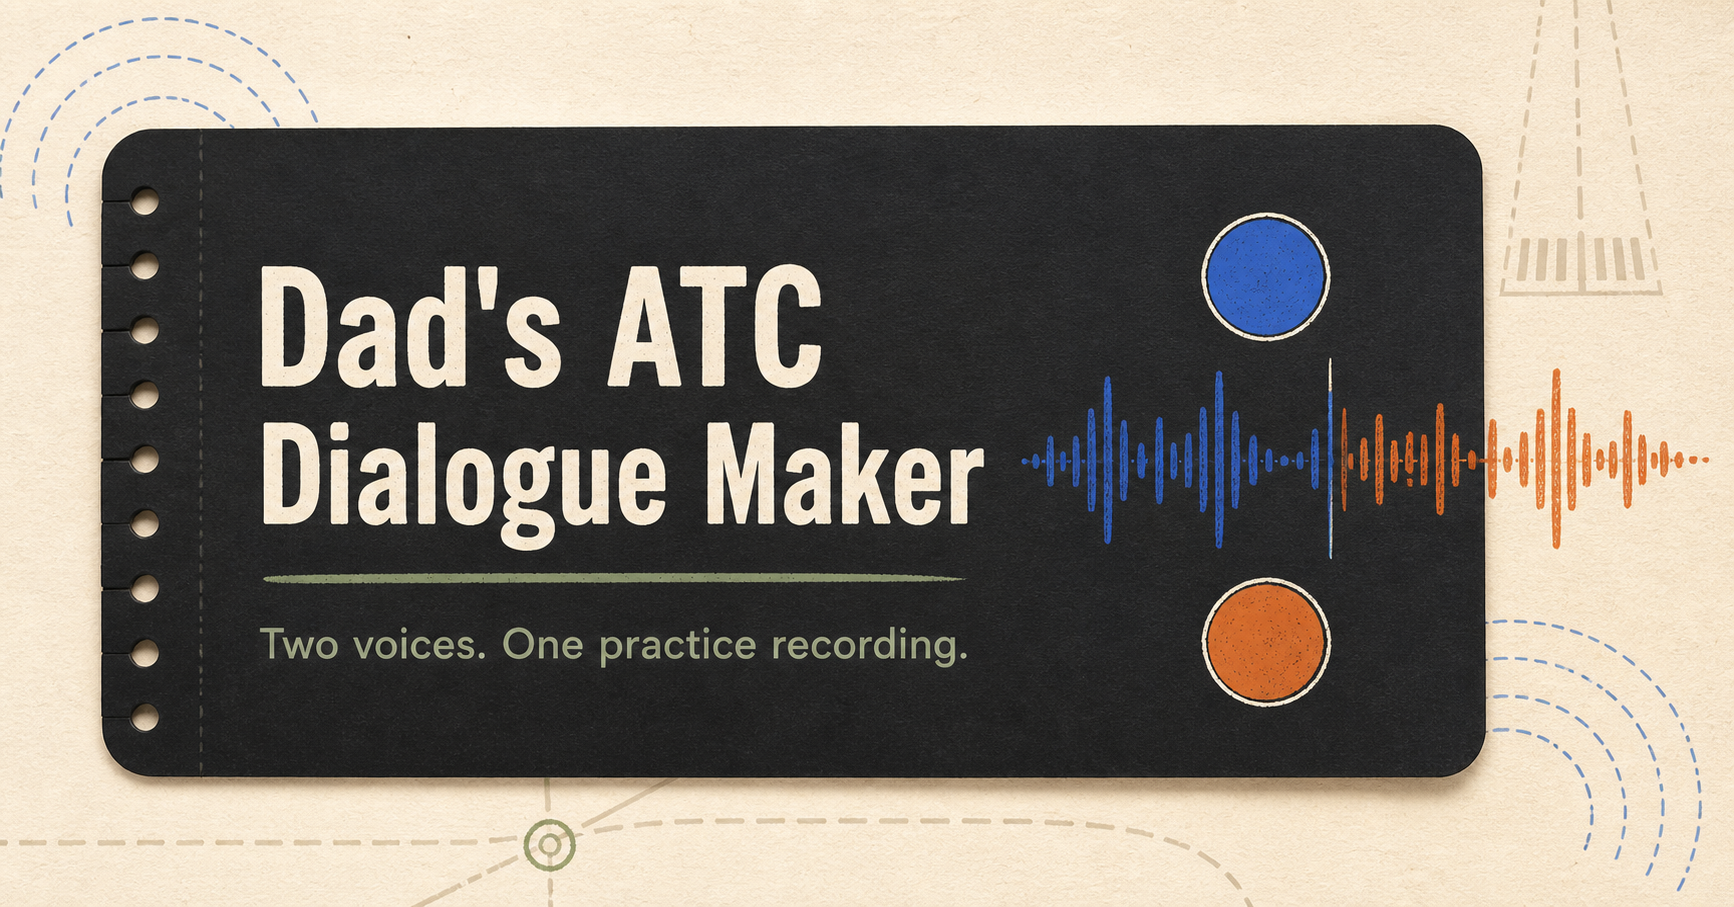
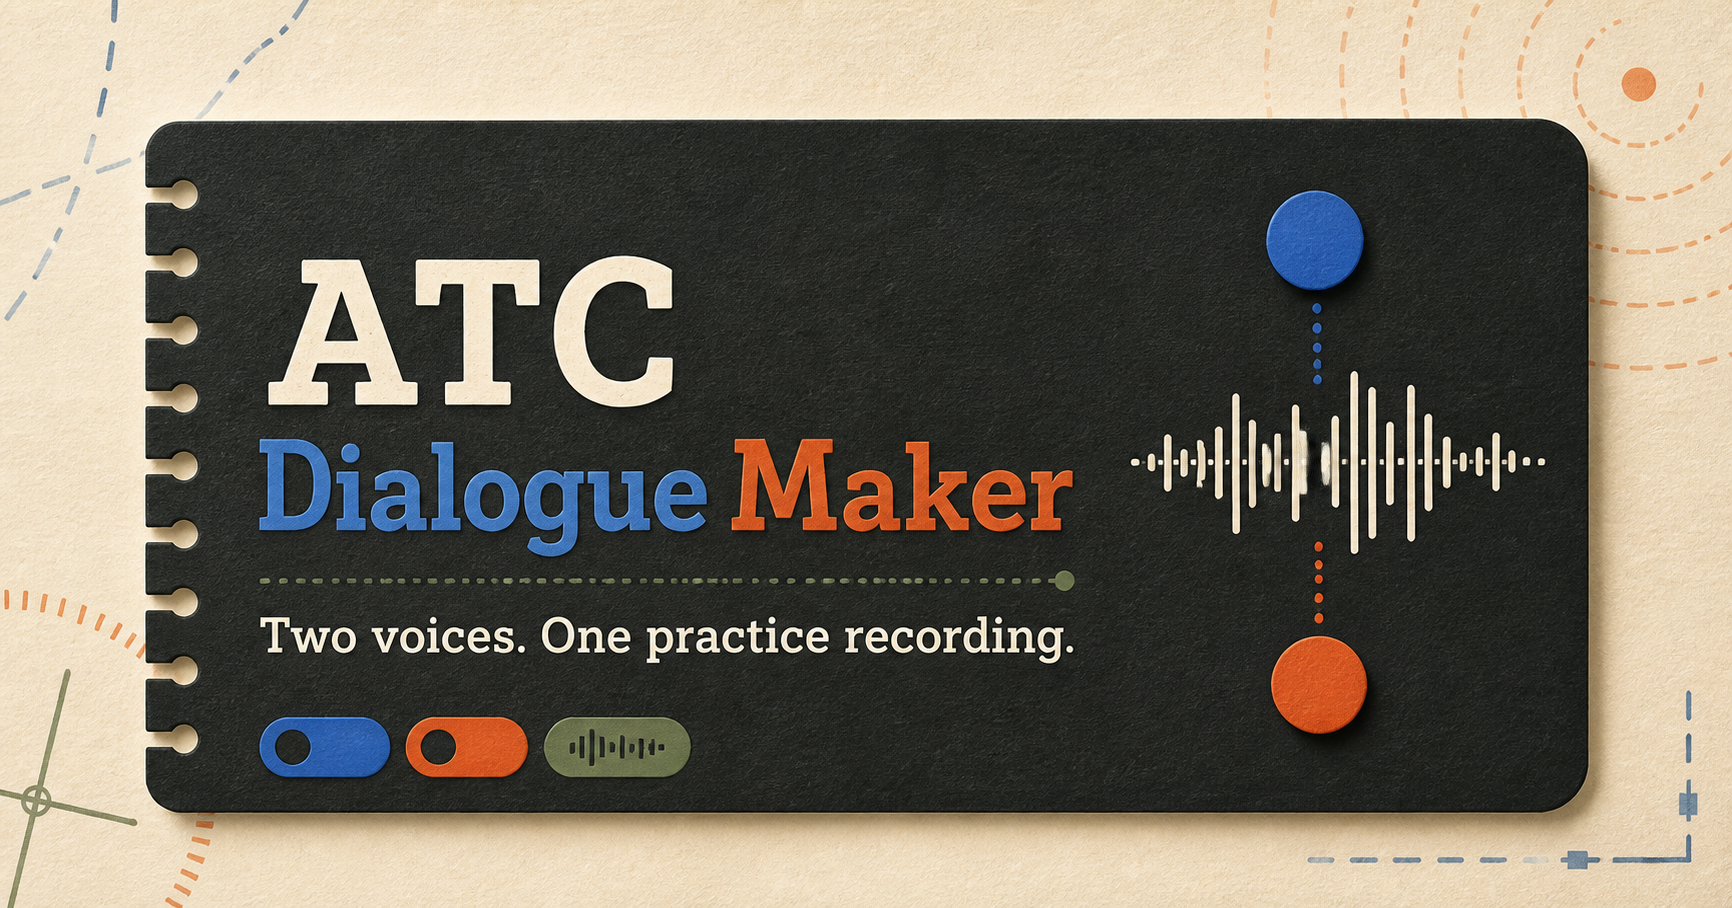
Rename site and remove sign-in branding

diff --git a/app/globals.css b/app/globals.css
@@ -74,7 +74,7 @@ body::before {
 
 .personal-label { display: flex; align-items: center; justify-content: space-between; color: #c8c6c1; font-size: 10px; letter-spacing: .13em; text-transform: uppercase; }
 .personal-label i { width: 9px; height: 9px; border-radius: 50%; background: #a8dfb3; box-shadow: 0 0 0 5px rgba(168,223,179,.1); }
-.for-dad { margin: 84px 0 14px; color: #efb188; font: italic 17px/1.4 Georgia, serif; }
+.for-practice { margin: 84px 0 14px; color: #efb188; font: italic 17px/1.4 Georgia, serif; }
 .intro-card h1 { margin: 0; font: 600 46px/.96 Georgia, serif; letter-spacing: -.04em; }
 .intro-copy { margin: 23px 0 0; color: #b8babd; font-size: 13px; line-height: 1.7; }
 .tiny-note { position: absolute; z-index: 1; left: 25px; right: 25px; bottom: 25px; display: grid; grid-template-columns: auto 1fr; gap: 10px; padding-top: 18px; border-top: 1px solid rgba(255,255,255,.13); }
@@ -156,7 +156,7 @@ input[type="range"] { width: 100%; accent-color: var(--blue); }
 @media (max-width: 1120px) {
   .maker-shell { grid-template-columns: 230px minmax(480px,1fr); grid-template-areas: "intro work" "choices work" "note note"; }
   .intro-card { position: static; min-height: 390px; }
-  .for-dad { margin-top: 46px; }
+  .for-practice { margin-top: 46px; }
   .intro-card h1 { font-size: 38px; }
 }
 

diff --git a/app/layout.tsx b/app/layout.tsx
@@ -9,16 +9,16 @@ export async function generateMetadata(): Promise<Metadata> {
   const baseUrl = `${protocol}://${host}`;
 
   return {
-    title: "Dad's ATC Dialogue Maker",
+    title: "ATC Dialogue Maker",
     description: "Make two-voice controller and pilot practice recordings in the browser.",
     openGraph: {
-      title: "Dad's ATC Dialogue Maker",
+      title: "ATC Dialogue Maker",
       description: "Two voices, radio effects, one useful practice recording.",
       images: [`${baseUrl}/og.png`]
     },
     twitter: {
       card: "summary_large_image",
-      title: "Dad's ATC Dialogue Maker",
+      title: "ATC Dialogue Maker",
       description: "Two voices, radio effects, one useful practice recording.",
       images: [`${baseUrl}/og.png`]
     }

diff --git a/app/page.tsx b/app/page.tsx
@@ -164,7 +164,7 @@ export default function DialogueMaker() {
     <main className="maker-shell">
       <section className="intro-card">
         <div className="personal-label"><span>Personal tool</span><i aria-hidden="true" /></div>
-        <p className="for-dad">For Dad&apos;s ATC practice sessions</p>
+        <p className="for-practice">For ATC practice sessions</p>
         <h1>Make a practice<br />dialogue.</h1>
         <p className="intro-copy">Paste the two sides, pick a voice for each person, and make one recording.</p>
         <div className="tiny-note">

diff --git a/README.md b/README.md
@@ -1,25 +1,17 @@
-# ATC Dialogue Studio
+# ATC Dialogue Maker
 
-A local web app that turns a labelled ATC/pilot script into a two-voice MP3 dialogue.
+A two-voice ATC and pilot practice recording maker that runs directly in the browser.
 
-The transmission-sound setting can leave the voices clean or add light radio filtering, a compressed VHF-style sound, or a strongly muffled recording effect. The selected effect is used for previews and the final MP3.
+## Run locally
 
-## Run it
-
-Requirements: Node.js 20 or newer and an internet connection.
+Requirements: Node.js 22 or newer.
 
 ```powershell
 npm install
-npm start
-```
-
-Then open [http://localhost:4173](http://localhost:4173).
-
-For automatic restarts while editing:
-
-```powershell
 npm run dev
 ```
+
+Open the local address printed by the development server.
 
 ## Script format
 
@@ -34,9 +26,10 @@ The aliases `CONTROLLER`, `TOWER`, `GROUND`, `APPROACH`, and `DEPARTURE` are als
 
 ## Notes
 
-- The neural voices are retrieved through Microsoft Edge's online speech service. No API key is needed, but the app needs internet access and the service may change.
+- Speech generation runs on the visitor's device. The voice model is downloaded on the first generation and cached by the browser.
+- The transmission setting supports clean, light-radio, VHF-radio, and muffled-recording effects.
 - Spell the script as it should sound. For example, write `one two four decimal six` rather than `124.6` when that is the desired pronunciation.
 - Synthetic audio can mispronounce callsigns, place names, abbreviations, or numbers. Review every recording.
 - This app is intended for preparation and training only, never for live operational communication or safety-critical use.
 
-Run the parser tests with `npm test`. To also contact the voice service and verify MP3 assembly, run `npm run test:live`.
+Run parser tests with `npm test` and create a production build with `npm run build`.
